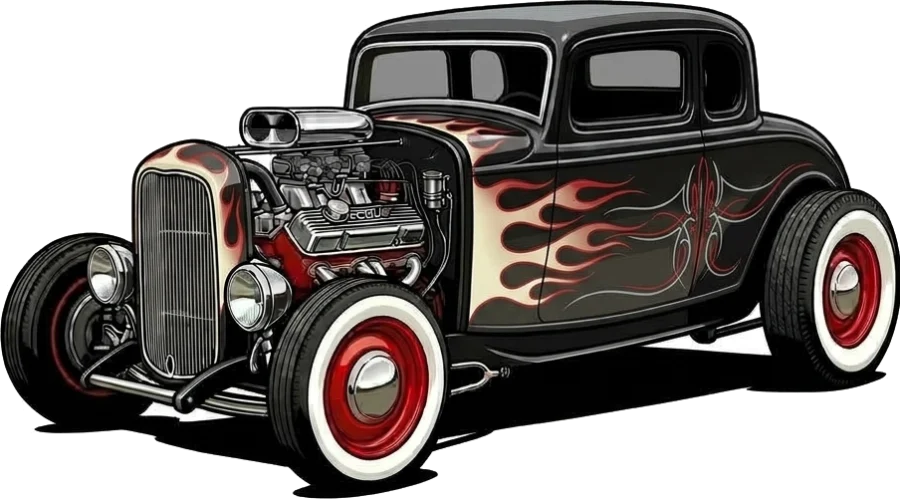
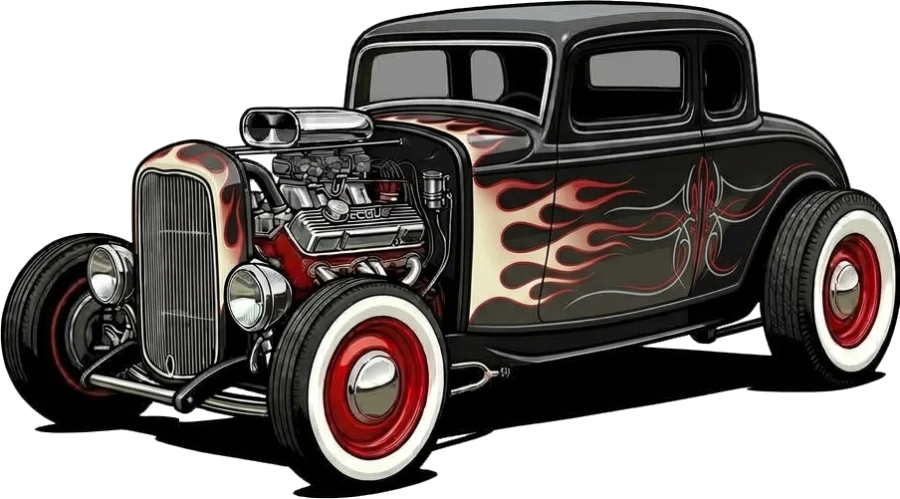
Clean up the Finish Line car image
Replace the race car with a cleaner cut-out so no white shows through around and under the car.

diff --git a/script.js b/script.js
@@ -483,7 +483,7 @@
   svg += '<g class="far-pole">' + pole(fb) + '</g>';
   svg += treeSvg;
   svg += '<g class="smoke"></g>';
-  svg += '<g class="car"><g class="car-tilt"><g transform="scale(-1,1)"><image href="images/ratrod.webp?v=1" x="' + (-(CW - REAR[0])).toFixed(1) + '" y="' + (-REAR[1]).toFixed(1) + '" width="' + CW + '" height="' + CH.toFixed(1) + '"/></g></g></g>';
+  svg += '<g class="car"><g class="car-tilt"><g transform="scale(-1,1)"><image href="images/ratrod.webp?v=2" x="' + (-(CW - REAR[0])).toFixed(1) + '" y="' + (-REAR[1]).toFixed(1) + '" width="' + CW + '" height="' + CH.toFixed(1) + '"/></g></g></g>';
   var slope = (fb[1] - nb[1]) / (fb[0] - nb[0]);
   var ban = 'M' + pt([nb[0], nb[1] - POLE]) + 'L' + pt([fb[0], fb[1] - POLE]) + 'L' + pt([fb[0], fb[1] - POLE + BAN]) + 'L' + pt([nb[0], nb[1] - POLE + BAN]) + 'Z';
   var len = fb[0] - nb[0];

diff --git a/index.html b/index.html
@@ -817,6 +817,6 @@
     <div class="strip"></div>
   </section>
 
-  <script src="script.js?v=22" defer></script>
+  <script src="script.js?v=23" defer></script>
 </body>
 </html>
